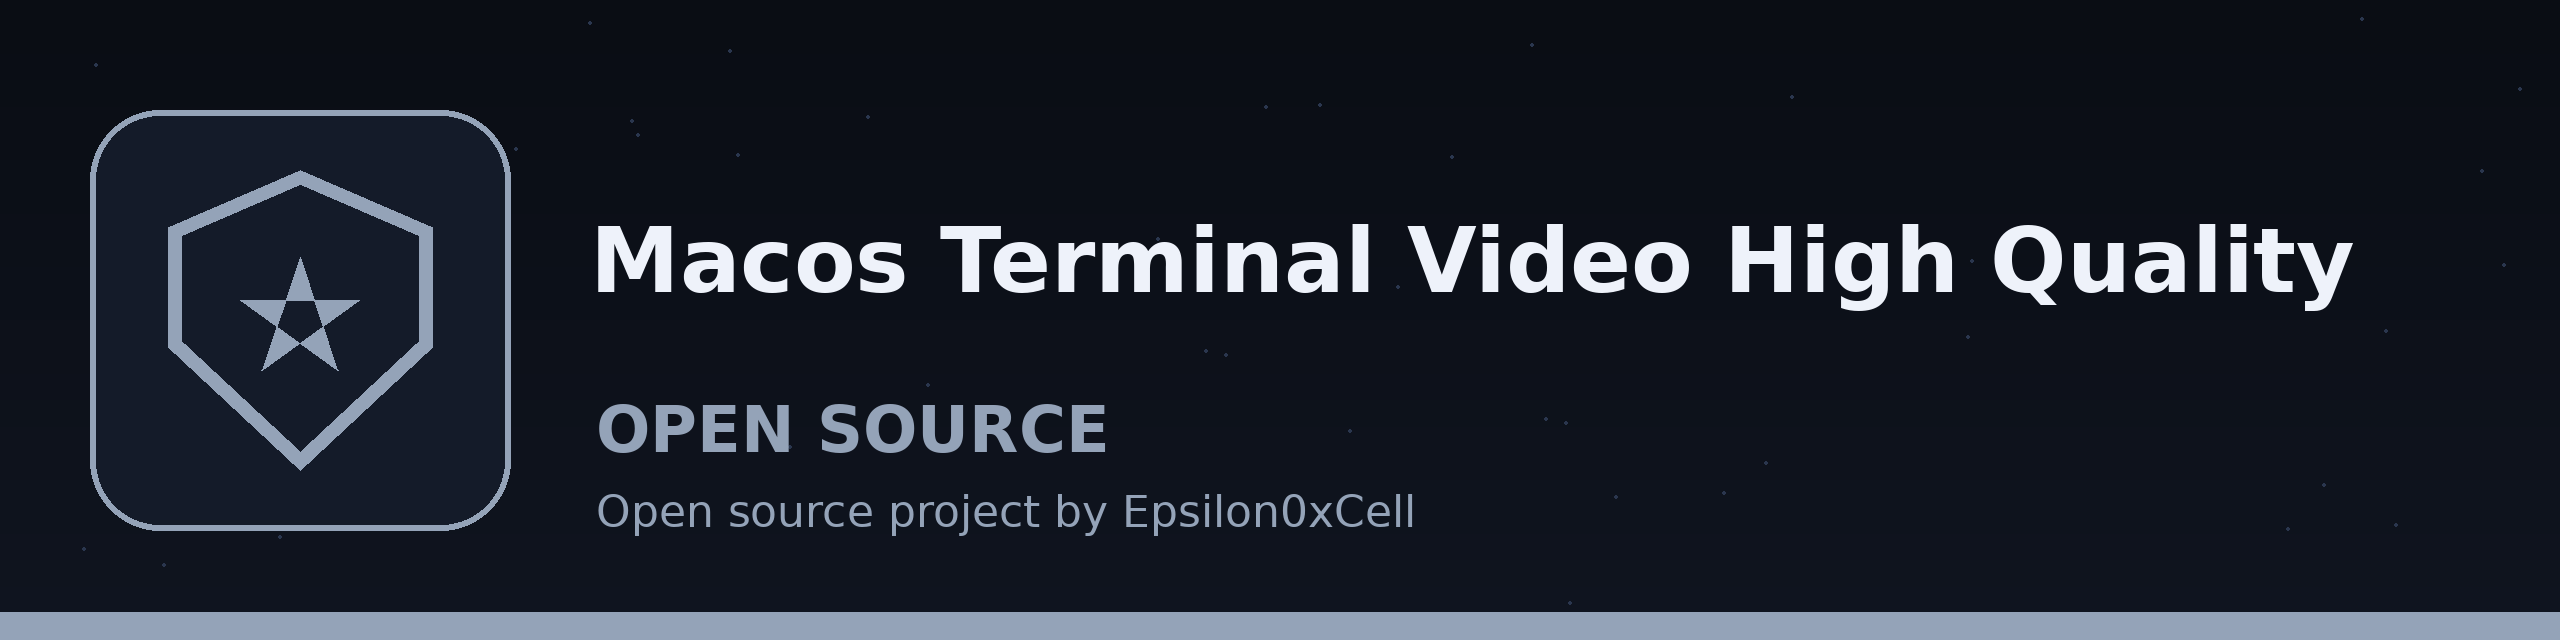
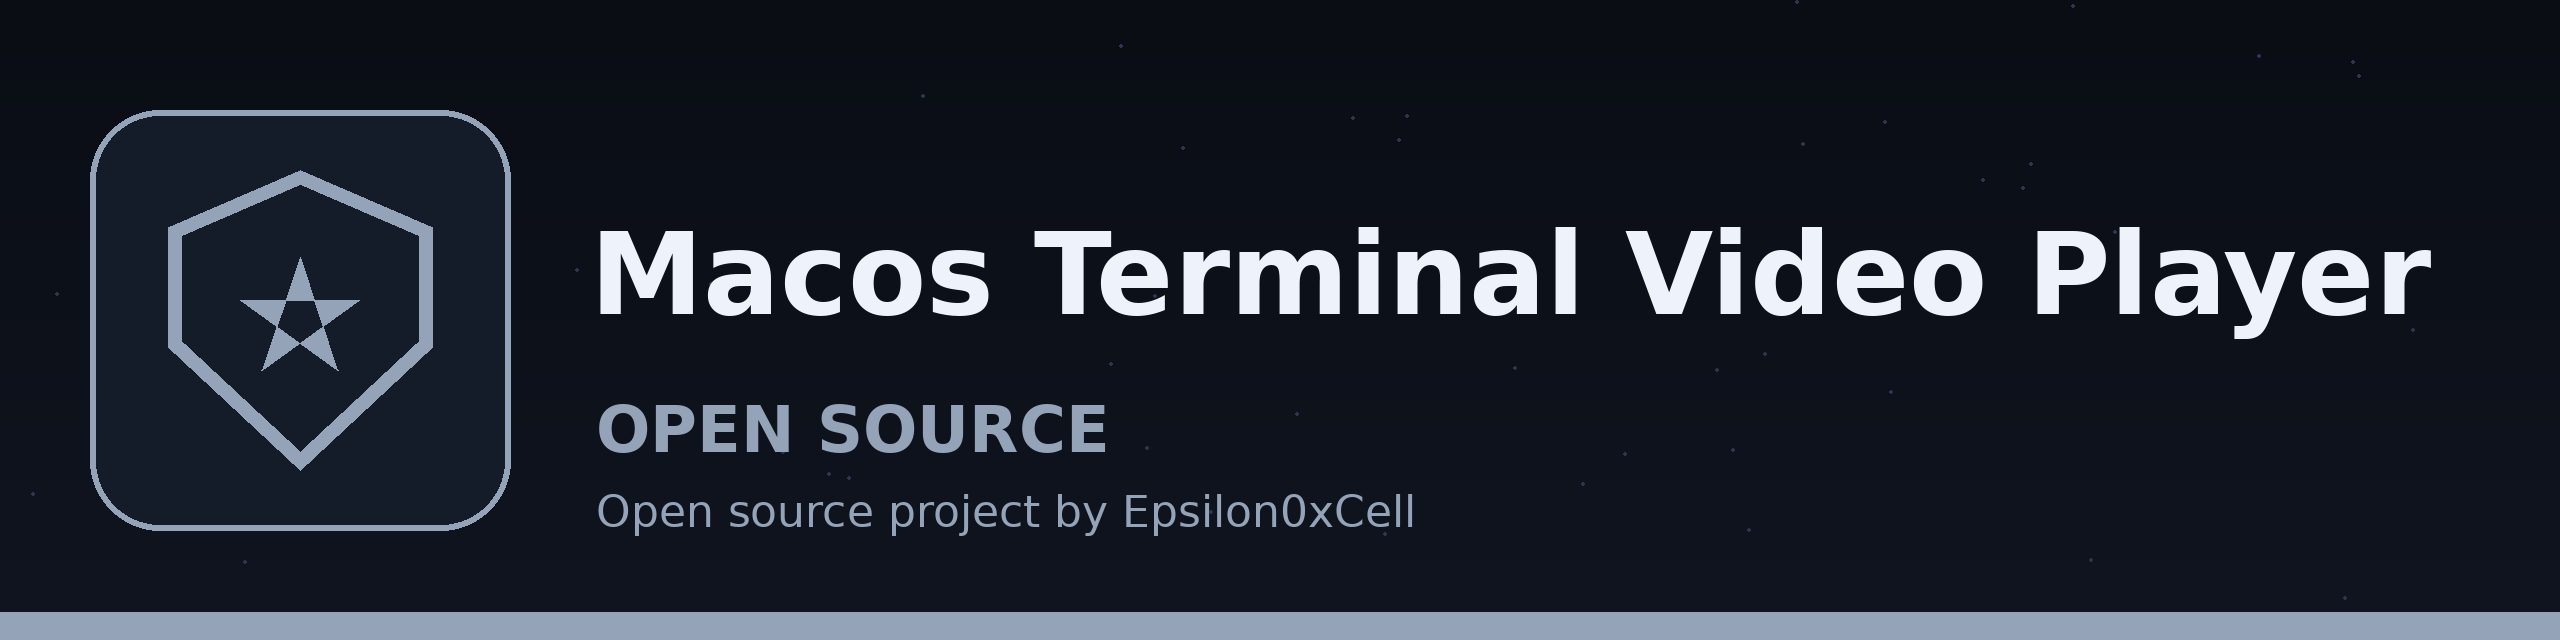
Update name to MacOS-Terminal-Video-Player: README title and branding

Changed region(s): [[0.2188, 0.3438, 0.9688, 0.5312]]

diff --git a/README.md b/README.md
@@ -1,6 +1,6 @@
 ![macos-terminal-video-high-quality](banner.png)
 
-# macos-terminal-video-high-quality
+# MacOS-Terminal-Video-Player
 
 Play video in the terminal at the highest quality the terminal allows:
 truecolor rendering with Unicode half blocks (two pixels per character
